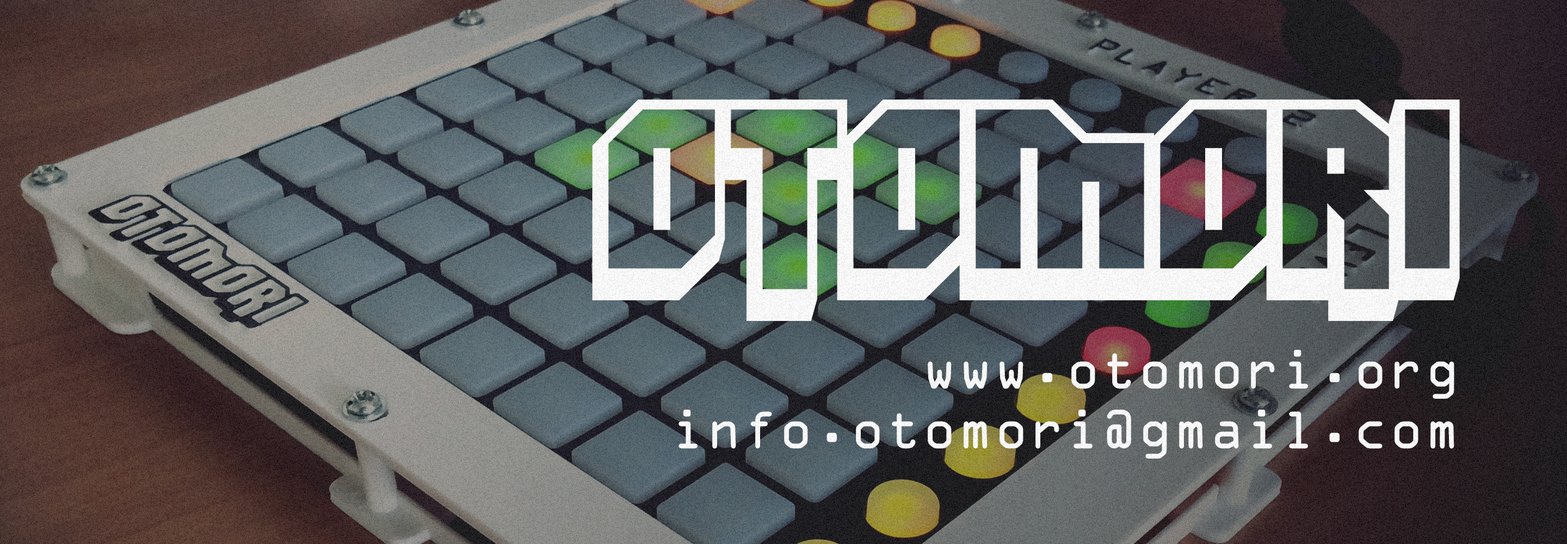
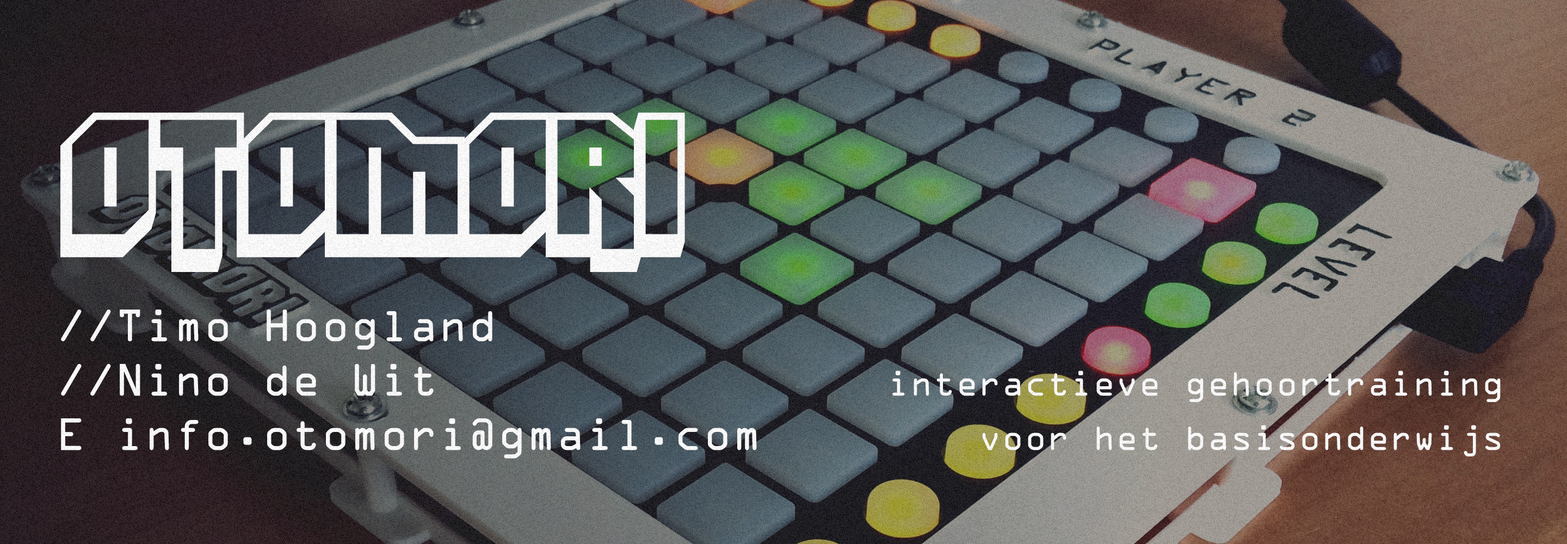
new photos and text change

diff --git a/index.html b/index.html
@@ -7,30 +7,35 @@ layout: default
   <img src="/otomori_header_1.jpg" alt="Otomori" max-width:100%; max-height:100%;>
   <p>
 
-  <h1 class="page-heading">Wat is Otomori?</h1>
+  <h1 class="page-heading"><font size="12">Wat is Otomori?</font></h1>
 
   <body>
     <p style="text-align:justify">
 
-    Otomori is het eerste en enige tactiele memory-spel puur gebaseerd op geluid. Kinderen zijn hiermee spelenderwijs met geluid bezig, ontdekken nieuwe klanken en trainen onbewust hun gehoor en auditief geheugen. Otomori is een waardevolle aanvulling op de muzieklessen in het basisonderwijs.
-  
+    Otomori is het eerste en enige tactiele memory-spel puur gebaseerd op geluid. Kinderen zijn hiermee spelenderwijs met geluid bezig, ontdekken nieuwe klanken en trainen onbewust hun gehoor en auditief geheugen. Otomori is een waardevolle aanvulling op de muzieklessen in het basisonderwijs. <br>
+    
+    <q>
+        De naam Otomori is een samenvoeging van de woorden "Oto" en "Memori". Dit is Japans voor "Geluid" en "Memory-spel".
+    </q>
+    
+    </p>
+  </body>
+
+  <br>
+  <img src="/otomori_child_play_1.jpg" alt="Otomori" max-width:100%; max-height:100%;>
+
+  <h1 class="page-heading"><font size="12">Ons Doel</font></h1>
+
+  <body>
+    <p style="text-align:justify">
+
+    Muziekles in het basisonderwijs is ontzettend belangrijk voor de ontwikkeling van het kind. Het stimuleert de creativiteit, draagt bij aan de motorische ontwikkeling, leert kinderen samenspelen, en muziek is eigenlijk natuurlijk ook gewoon ontzettend leuk! Otomori stelt leerkrachten in staat kinderen spelenderwijs met muziek bezig te laten zijn zonder dat zij daar zelf kennis van hoeven te hebben. Door het spelen van Otomori zijn kinderen onbewust hun gehoor en auditief geheugen aan het trainen. Dit is een essentieel onderdeel van muziekles waar in de reguliere muziekles toch niet altijd tijd voor is. Ook ontdekken kinderen klanken die ze niet in het dagelijks leven horen. Otomori is een uniek spelsysteem waardoor elk kind met muziek bezig kan zijn op zijn eigen niveau.
     </p>
   </body>
 
   <br>
 
-  <h1 class="page-heading">Waarvoor is Otomori gemaakt?</h1>
-
-  <body>
-    <p style="text-align:justify">
-
-    Muziekles in het basisonderwijs is ontzettend belangrijk voor de ontwikkeling van het kind. Het stimuleert de creativiteit, draagt bij aan de motorische ontwikkeling, leert kinderen samenspelen, en muziek is eigenlijk natuurlijk ook gewoon ontzettend leuk! Helaas hebben leerkrachten zelf vaak geen affiniteit met muziek omdat ze geen instrument kunnen bespelen of niet voor de klas durven te zingen. Otomori stelt leerkrachten in staat kinderen spelenderwijs met muziek bezig te laten zijn zonder dat zij daar zelf kennis van hoeven te hebben. Door het spelen van Otomori zijn kinderen onbewust hun gehoor en auditief geheugen aan het trainen. Dit is een essentieel onderdeel van muziekles waar in de reguliere muziekles toch niet altijd tijd voor is. Ook ontdekken kinderen klanken die ze niet in het dagelijks leven horen. Otomori is een uniek spelsysteem waardoor elk kind met muziek bezig kan zijn op zijn eigen niveau.
-    </p>
-  </body>
-
-  <br>
-
-  <h1 class="page-heading">Nieuws</h1>
+  <h1 class="page-heading"><font size="12">Nieuws</font></h1>
 
   <ul class="post-list">
     {% for post in site.posts %}
